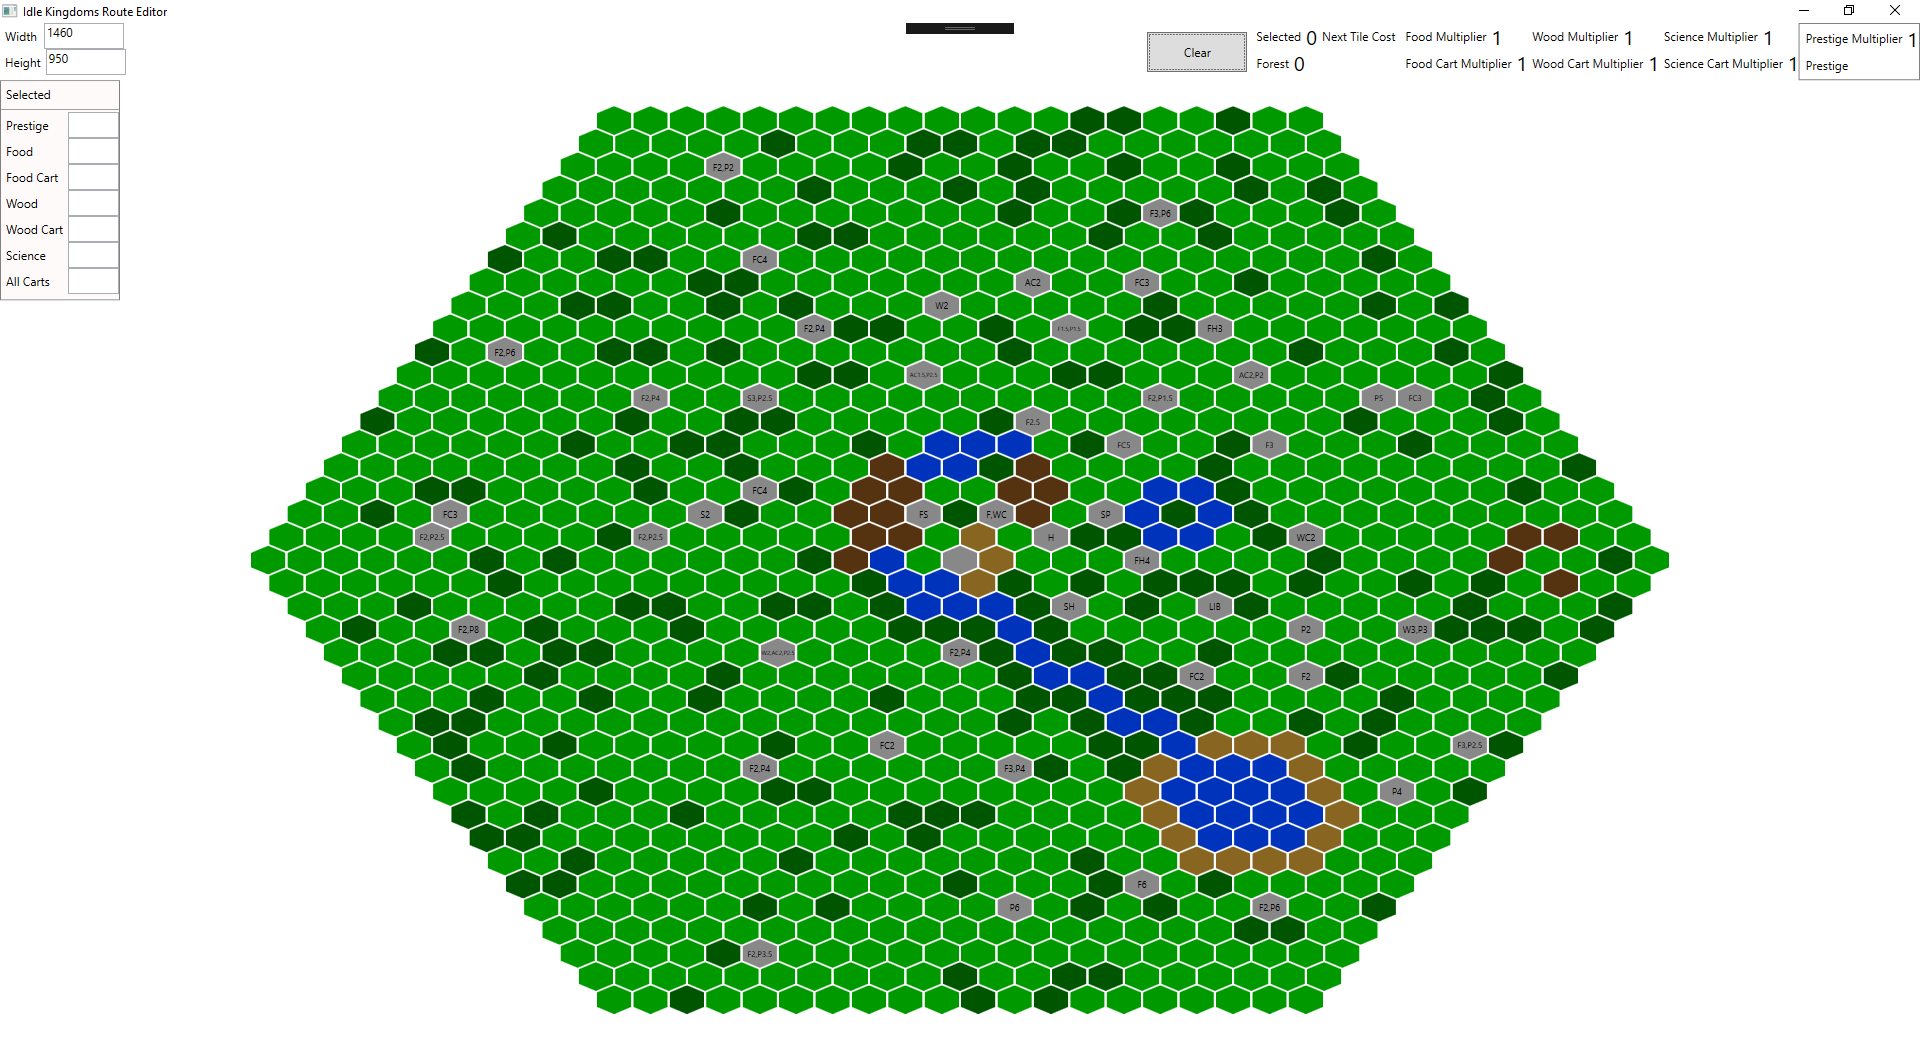
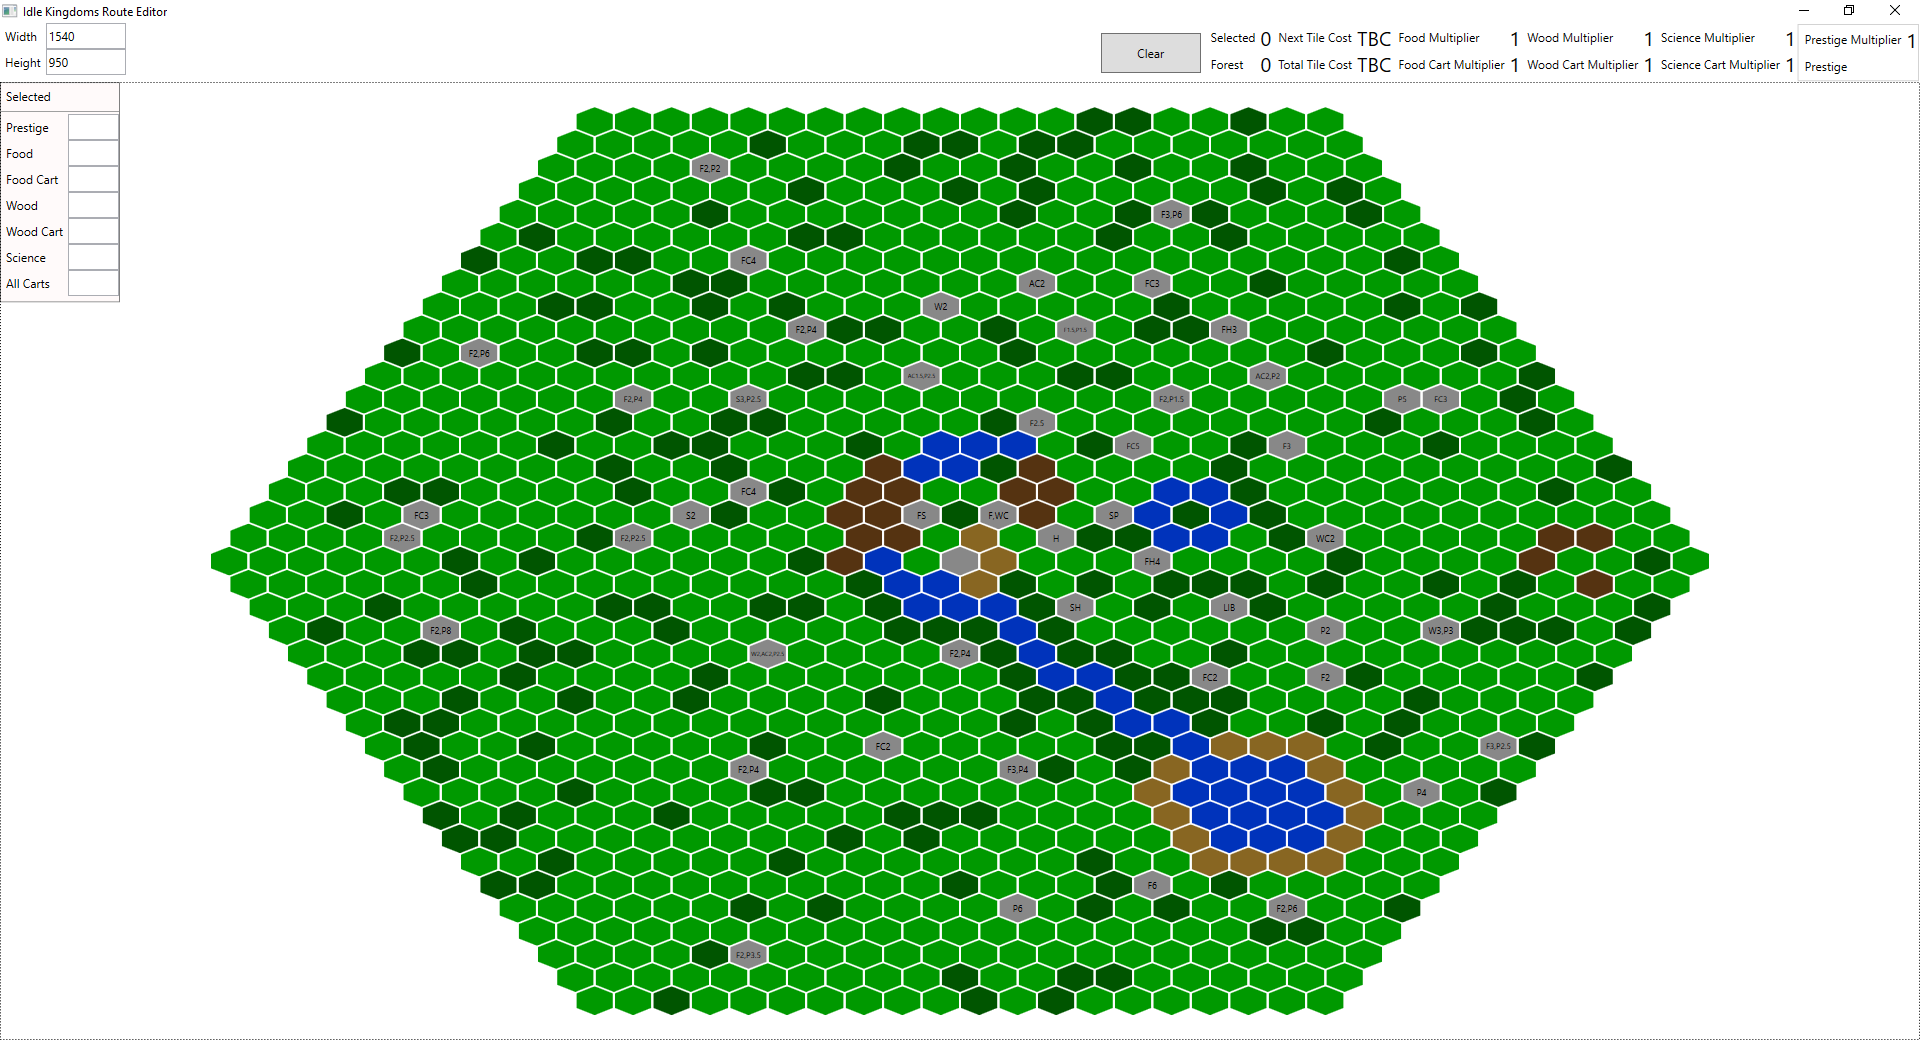
updated images and neatened info layout

Changed region(s): [[0.0938, 0.0308, 1.0, 0.9846], [0.0, 0.0615, 0.0625, 0.3077], [0.4688, 0.0, 0.5312, 0.0308]]

diff --git a/IdleKingdomsEditor/MainWindow.xaml b/IdleKingdomsEditor/MainWindow.xaml
@@ -103,69 +103,73 @@
             <StackPanel>
                 <DockPanel>
                     <Label>Width</Label>
-                    <TextBox Name="WidthTextBox" Width="80" TextChanged="WidthTextBox_TextChanged">2000</TextBox>
+                    <TextBox Name="WidthTextBox" Width="80" TextChanged="WidthTextBox_TextChanged" HorizontalAlignment="Right" VerticalContentAlignment="Center">2000</TextBox>
                 </DockPanel>
                 <DockPanel>
                     <Label>Height</Label>
-                    <TextBox Name="HeightTextBox" Width="80" TextChanged="HeightTextBox_TextChanged">1800</TextBox>
+                    <TextBox Name="HeightTextBox" Width="80" TextChanged="HeightTextBox_TextChanged" HorizontalAlignment="Right" VerticalContentAlignment="Center">1800</TextBox>
                 </DockPanel>
             </StackPanel>
-            <Border DockPanel.Dock="Right" BorderBrush="Gray" BorderThickness="1" Padding="1">
-                <StackPanel>
+            <Border DockPanel.Dock="Right" BorderBrush="LightGray" BorderThickness="1" Margin="1">
+                <StackPanel Margin="1">
                     <DockPanel>
                         <Label>Prestige Multiplier</Label>
-                        <TextBlock Name="PrestigeMultiplier"  FontSize="20" DockPanel.Dock="Right"></TextBlock>
+                        <TextBlock Name="PrestigeMultiplier"  FontSize="20" HorizontalAlignment="Right"></TextBlock>
                     </DockPanel>
                     <DockPanel>
                         <Label>Prestige</Label>
-                        <TextBlock Name="PrestigeInfo"  FontSize="20" DockPanel.Dock="Right"></TextBlock>
+                        <TextBlock Name="PrestigeInfo"  FontSize="20" HorizontalAlignment="Right"></TextBlock>
                     </DockPanel>
                 </StackPanel>
             </Border>
-            <StackPanel DockPanel.Dock="Right">
+            <StackPanel DockPanel.Dock="Right" Margin="1">
                 <DockPanel>
                     <Label>Science Multiplier</Label>
-                    <TextBlock Name="ScienceInfo"  FontSize="20" DockPanel.Dock="Right"></TextBlock>
+                    <TextBlock Name="ScienceInfo"  FontSize="20" HorizontalAlignment="Right"></TextBlock>
                 </DockPanel>
                 <DockPanel>
                     <Label>Science Cart Multiplier</Label>
-                    <TextBlock Name="ScienceCartInfo"  FontSize="20" DockPanel.Dock="Right"></TextBlock>
+                    <TextBlock Name="ScienceCartInfo"  FontSize="20" HorizontalAlignment="Right"></TextBlock>
                 </DockPanel>
             </StackPanel>
-            <StackPanel DockPanel.Dock="Right">
+            <StackPanel DockPanel.Dock="Right" Margin="1">
                 <DockPanel>
                     <Label>Wood Multiplier</Label>
-                    <TextBlock Name="WoodInfo"  FontSize="20" DockPanel.Dock="Right"></TextBlock>
+                    <TextBlock Name="WoodInfo"  FontSize="20" HorizontalAlignment="Right"></TextBlock>
                 </DockPanel>
                 <DockPanel>
                     <Label>Wood Cart Multiplier</Label>
-                    <TextBlock Name="WoodCartInfo"  FontSize="20" DockPanel.Dock="Right"></TextBlock>
+                    <TextBlock Name="WoodCartInfo"  FontSize="20"  HorizontalAlignment="Right"></TextBlock>
                 </DockPanel>
             </StackPanel>
-            <StackPanel DockPanel.Dock="Right">
+            <StackPanel DockPanel.Dock="Right" Margin="1">
                 <DockPanel>
                     <Label >Food Multiplier</Label>
-                    <TextBlock Name="FoodInfo"  FontSize="20" DockPanel.Dock="Right"></TextBlock>
+                    <TextBlock Name="FoodInfo"  FontSize="20" HorizontalAlignment="Right"></TextBlock>
                 </DockPanel>
                 <DockPanel>
                     <Label>Food Cart Multiplier</Label>
-                    <TextBlock Name="FoodCartInfo"  FontSize="20" DockPanel.Dock="Right"></TextBlock>
+                    <TextBlock Name="FoodCartInfo"  FontSize="20" HorizontalAlignment="Right"></TextBlock>
                 </DockPanel>
             </StackPanel>
-            <StackPanel DockPanel.Dock="Right">
+            <StackPanel DockPanel.Dock="Right" Margin="1">
                 <DockPanel>
                     <Label>Next Tile Cost</Label>
-                    <TextBlock Name="TileCost"  FontSize="20" DockPanel.Dock="Right"></TextBlock>
+                    <TextBlock Name="TileCost"  FontSize="20" HorizontalAlignment="Right">TBC</TextBlock>
+                </DockPanel>
+                <DockPanel>
+                    <Label>Total Tile Cost</Label>
+                    <TextBlock Name="TileCostTotal"  FontSize="20" HorizontalAlignment="Right">TBC</TextBlock>
                 </DockPanel>
             </StackPanel>
-            <StackPanel DockPanel.Dock="Right">
+            <StackPanel DockPanel.Dock="Right" Margin="1">
                 <DockPanel>
                     <Label>Selected</Label>
-                    <TextBlock Name="SelectedInfo"  FontSize="20" DockPanel.Dock="Right"></TextBlock>
+                    <TextBlock Name="SelectedInfo"  FontSize="20" HorizontalAlignment="Right"></TextBlock>
                 </DockPanel>
                 <DockPanel>
                     <Label>Forest</Label>
-                    <TextBlock Name="ForestInfo"  FontSize="20" DockPanel.Dock="Right"></TextBlock>
+                    <TextBlock Name="ForestInfo"  FontSize="20" HorizontalAlignment="Right"></TextBlock>
                 </DockPanel>
             </StackPanel>
             <Button DockPanel.Dock="Right" Click="Button_Click" Width="100" Height="40" Margin="4">Clear</Button>
